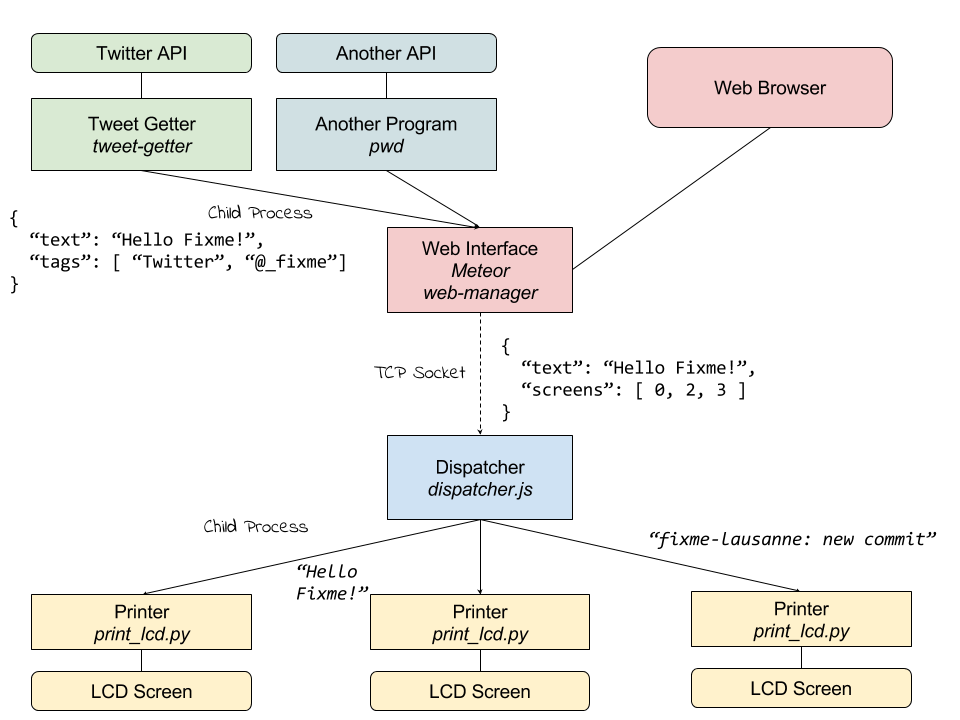
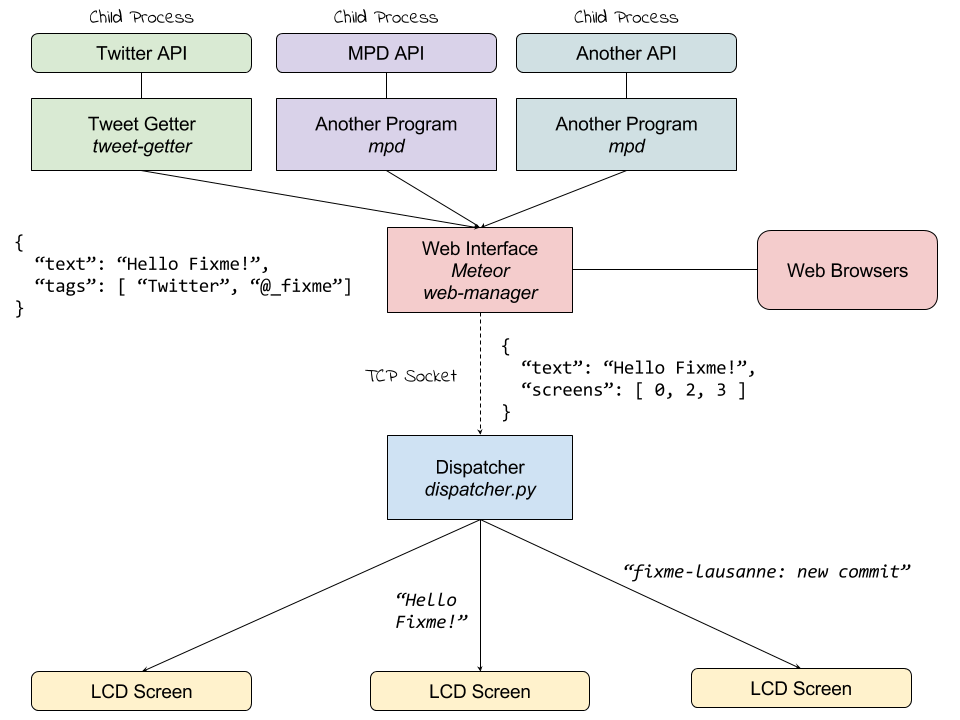
Close #5

diff --git a/README.md b/README.md
@@ -6,7 +6,7 @@ Let's show messages in the Hackerspace!
 Installation
 ------------
 
-### print_lcd.py
+### dispatcher.py
 
 - Install RPIO: https://pythonhosted.org/RPIO/#installation (the GitHub method seems to work better. You may need python-setuptools)
 - Install RPLCD: https://github.com/dbrgn/RPLCD#installing
@@ -27,7 +27,7 @@ _Note: you may need to change the IP address of the dispatcher in Web Manager gl
 Service
 -------
 
-Here is an example of service file if you run systemd.
+Here is an example of service file for the dispatcher if you run systemd.
 
 ```service
 [Unit]
